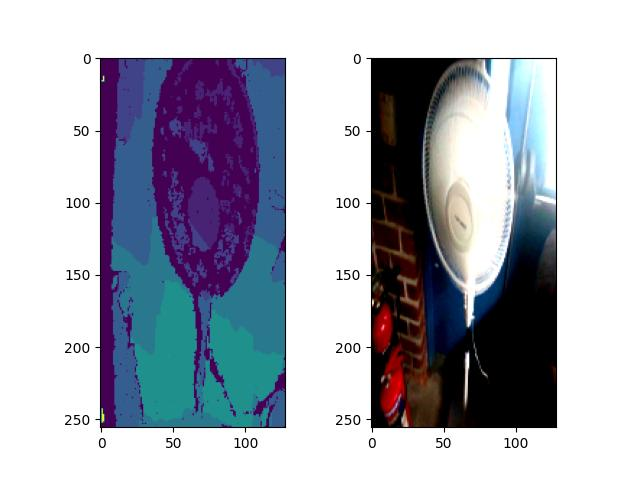
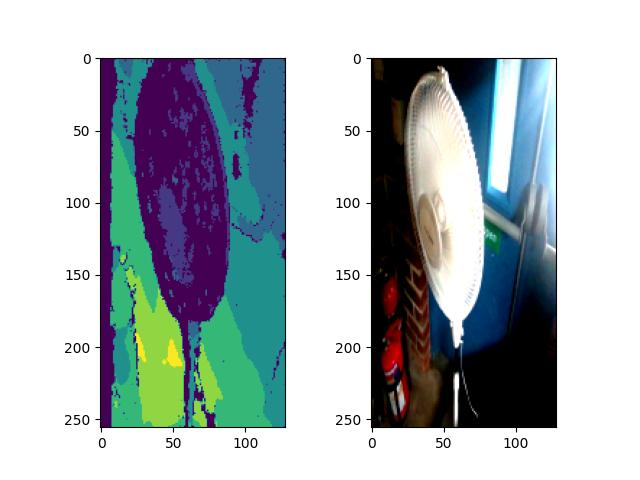
Experiment11

Changed region(s): [[0.1562, 0.125, 0.4688, 0.9062], [0.5625, 0.125, 0.875, 0.9062], [0.5625, 0.125, 0.625, 0.1562]]

diff --git a/model/make_model.py b/model/make_model.py
@@ -436,7 +436,7 @@ class build_FourDNet(nn.Module):
 
         # the pretrained modalities 
         self.rgb_pretrained_path = "./logs/Experiment9a_rgbonly/120.pth"
-        self.depth_pretrained_path = "./logs/Experiment9a_depthonly/120.pth"
+        self.depth_pretrained_path = "./logs/Experiment11_depthonly/120.pth"
         
 
         print(f"using model parallel with GPU0 = {self.gpu0}, GPU1 = {self.gpu1} and TARGET_GPU = {self.target_gpu}")
@@ -587,7 +587,7 @@ class build_FourDNet(nn.Module):
 
 
         # loading the pretrained modalities
-        # self.load_rgb_pretrained()
+        self.load_rgb_pretrained()
         self.load_depth_pretrained()
 
 
@@ -704,29 +704,29 @@ class build_FourDNet(nn.Module):
         v_d = self.V_d(local_cat_global_depth.to(self.d2d_gpu))
 
 
-        # """R2R Self Attention"""
-        # # selecting key positions and their attention weights
-        # selector_outputs = self.r2r_selector(q_r)
-        # attention_scores = self.r2r_attn_weights(q_r)
-        # locations_x = selector_outputs[:, :, 0 : self.r2r_m * self.r2r_k]
-        # locations_y = selector_outputs[:, :, self.r2r_m * self.r2r_k :] 
+        """R2R Self Attention"""
+        # selecting key positions and their attention weights
+        selector_outputs = self.r2r_selector(q_r)
+        attention_scores = self.r2r_attn_weights(q_r)
+        locations_x = selector_outputs[:, :, 0 : self.r2r_m * self.r2r_k]
+        locations_y = selector_outputs[:, :, self.r2r_m * self.r2r_k :] 
 
 
-        # # performing sampling of the value feature map at the given locations
-        # v = v_r.permute(0, 2, 1).reshape(B, self.reduced_dim, 16, 8)
-        # grid = torch.stack((locations_x, locations_y), -1)
-        # grid = grid * 2 - 1
-        # interpolated_feat = F.grid_sample(v, grid, align_corners=True).permute(0, 2, 3, 1)
+        # performing sampling of the value feature map at the given locations
+        v = v_r.permute(0, 2, 1).reshape(B, self.reduced_dim, 16, 8)
+        grid = torch.stack((locations_x, locations_y), -1)
+        grid = grid * 2 - 1
+        interpolated_feat = F.grid_sample(v, grid, align_corners=True).permute(0, 2, 3, 1)
 
 
-        # # performing weighted sum of values
-        # r2r_feat = torch.sum(interpolated_feat * attention_scores.unsqueeze(-1), dim=-2) 
-        # r2r_feat = self.r2r_ffn(r2r_feat)
+        # performing weighted sum of values
+        r2r_feat = torch.sum(interpolated_feat * attention_scores.unsqueeze(-1), dim=-2) 
+        r2r_feat = self.r2r_ffn(r2r_feat)
 
 
-        # # adding back to the RGB path
-        # local_cat_global_rgb = local_cat_global_rgb + r2r_feat.to(self.gpu0)
-        # local_cat_global_rgb = self.r2r_norm(local_cat_global_rgb)
+        # adding back to the RGB path
+        local_cat_global_rgb = local_cat_global_rgb + r2r_feat.to(self.gpu0)
+        local_cat_global_rgb = self.r2r_norm(local_cat_global_rgb)
 
 
         """D2D Self Attention"""
@@ -754,54 +754,54 @@ class build_FourDNet(nn.Module):
         local_cat_global_depth = self.d2d_norm(local_cat_global_depth)
 
 
-        # """D2R Cross Attention"""
-        # # selecting key positions and their attention weights
-        # selector_outputs = self.d2r_selector(q_d.to(self.d2r_gpu))
-        # attention_scores = self.d2r_attn_weights(q_d.to(self.d2r_gpu))
-        # locations_x = selector_outputs[:, :, 0 : self.d2r_m * self.d2r_k]
-        # locations_y = selector_outputs[:, :, self.d2r_m * self.d2r_k :] 
+        """D2R Cross Attention"""
+        # selecting key positions and their attention weights
+        selector_outputs = self.d2r_selector(q_d.to(self.d2r_gpu))
+        attention_scores = self.d2r_attn_weights(q_d.to(self.d2r_gpu))
+        locations_x = selector_outputs[:, :, 0 : self.d2r_m * self.d2r_k]
+        locations_y = selector_outputs[:, :, self.d2r_m * self.d2r_k :] 
 
 
-        # # performing sampling of the value feature map at the given locations
-        # v = v_r.permute(0, 2, 1).reshape(B, self.reduced_dim, 16, 8)
-        # grid = torch.stack((locations_x, locations_y), -1)
-        # grid = grid * 2 - 1
-        # interpolated_feat = F.grid_sample(v.to(self.d2r_gpu), grid, align_corners=True).permute(0, 2, 3, 1)
+        # performing sampling of the value feature map at the given locations
+        v = v_r.permute(0, 2, 1).reshape(B, self.reduced_dim, 16, 8)
+        grid = torch.stack((locations_x, locations_y), -1)
+        grid = grid * 2 - 1
+        interpolated_feat = F.grid_sample(v.to(self.d2r_gpu), grid, align_corners=True).permute(0, 2, 3, 1)
 
 
-        # # performing weighted sum of values
-        # d2r_feat = torch.sum(interpolated_feat * attention_scores.unsqueeze(-1), dim=-2) 
-        # d2r_feat = self.d2r_ffn(d2r_feat)
+        # performing weighted sum of values
+        d2r_feat = torch.sum(interpolated_feat * attention_scores.unsqueeze(-1), dim=-2) 
+        d2r_feat = self.d2r_ffn(d2r_feat)
 
 
-        # # adding back to the depth path
-        # local_cat_global_depth = local_cat_global_depth + d2r_feat.to(self.gpu1) * rgb_filter.reshape(B, 128).unsqueeze(-1).to(self.gpu1)
-        # local_cat_global_depth = self.d2r_norm(local_cat_global_depth)
+        # adding back to the depth path
+        local_cat_global_depth = local_cat_global_depth + d2r_feat.to(self.gpu1) * rgb_filter.reshape(B, 128).unsqueeze(-1).to(self.gpu1)
+        local_cat_global_depth = self.d2r_norm(local_cat_global_depth)
 
 
-        # """R2D Cross Attention"""
-        # # selecting key positions and their attention weights
-        # selector_outputs = self.r2d_selector(q_r.to(self.r2d_gpu))
-        # attention_scores = self.r2d_attn_weights(q_r.to(self.r2d_gpu))
-        # locations_x = selector_outputs[:, :, 0 : self.r2d_m * self.r2d_k]
-        # locations_y = selector_outputs[:, :, self.r2d_m * self.r2d_k :] 
+        """R2D Cross Attention"""
+        # selecting key positions and their attention weights
+        selector_outputs = self.r2d_selector(q_r.to(self.r2d_gpu))
+        attention_scores = self.r2d_attn_weights(q_r.to(self.r2d_gpu))
+        locations_x = selector_outputs[:, :, 0 : self.r2d_m * self.r2d_k]
+        locations_y = selector_outputs[:, :, self.r2d_m * self.r2d_k :] 
 
 
-        # # performing sampling of the value feature map at the given locations
-        # v = v_d.permute(0, 2, 1).reshape(B, self.reduced_dim, 16, 8)
-        # grid = torch.stack((locations_x, locations_y), -1)
-        # grid = grid * 2 - 1
-        # interpolated_feat = F.grid_sample(v.to(self.r2d_gpu), grid, align_corners=True).permute(0, 2, 3, 1)
+        # performing sampling of the value feature map at the given locations
+        v = v_d.permute(0, 2, 1).reshape(B, self.reduced_dim, 16, 8)
+        grid = torch.stack((locations_x, locations_y), -1)
+        grid = grid * 2 - 1
+        interpolated_feat = F.grid_sample(v.to(self.r2d_gpu), grid, align_corners=True).permute(0, 2, 3, 1)
 
 
-        # # performing weighted sum of values
-        # r2d_feat = torch.sum(interpolated_feat * attention_scores.unsqueeze(-1), dim=-2) 
-        # r2d_feat = self.r2d_ffn(r2d_feat)
+        # performing weighted sum of values
+        r2d_feat = torch.sum(interpolated_feat * attention_scores.unsqueeze(-1), dim=-2) 
+        r2d_feat = self.r2d_ffn(r2d_feat)
 
 
-        # # adding back to the RGB path
-        # local_cat_global_rgb = local_cat_global_rgb + r2d_feat.to(self.gpu0) * depth_filter.reshape(B, 128).unsqueeze(-1).to(self.gpu0)
-        # local_cat_global_rgb = self.r2d_norm(local_cat_global_rgb)
+        # adding back to the RGB path
+        local_cat_global_rgb = local_cat_global_rgb + r2d_feat.to(self.gpu0) * depth_filter.reshape(B, 128).unsqueeze(-1).to(self.gpu0)
+        local_cat_global_rgb = self.r2d_norm(local_cat_global_rgb)
 
 
         """Preparing final features to use for classification"""
@@ -810,9 +810,9 @@ class build_FourDNet(nn.Module):
         # local_cat_global_depth = torch.mean(local_cat_global_depth, -2)
 
 
-        # final_embedding = local_cat_global_depth.to(self.target_gpu) * depth_filter.reshape(B, 128).unsqueeze(-1).to(self.target_gpu) + local_cat_global_rgb.to(self.target_gpu) * rgb_filter.reshape(B, 128).unsqueeze(-1).to(self.target_gpu)
+        final_embedding = local_cat_global_depth.to(self.target_gpu) * depth_filter.reshape(B, 128).unsqueeze(-1).to(self.target_gpu) + local_cat_global_rgb.to(self.target_gpu) * rgb_filter.reshape(B, 128).unsqueeze(-1).to(self.target_gpu)
         # final_embedding = local_cat_global_rgb.to(self.target_gpu) 
-        final_embedding = local_cat_global_depth.to(self.target_gpu) 
+        # final_embedding = local_cat_global_depth.to(self.target_gpu) 
         final_embedding = torch.mean(final_embedding, dim=-2)
 
         # compute the cls scores and return

diff --git a/processor/processor_depth.py b/processor/processor_depth.py
@@ -16,7 +16,7 @@ import shutil
 WANDB = True
 EMBEDDING_DIM = 128
 NUM_INSTANCES = 12
-EXPERIMENT_NAME = "test_depth_pretrained" 
+EXPERIMENT_NAME = "Experiment11_full"
 PROJECT_NAME = "Experiments_Full2"
 
 def do_train_4DNet(cfg,

diff --git a/utils/metrics.py b/utils/metrics.py
@@ -12,6 +12,7 @@ def euclidean_distance(qf, gf):
     dist_mat.addmm_(1, -2, qf, gf.t())
     return dist_mat.cpu().numpy()
 
+
 def cosine_similarity(qf, gf):
     epsilon = 0.00001
     dist_mat = qf.mm(gf.t())
